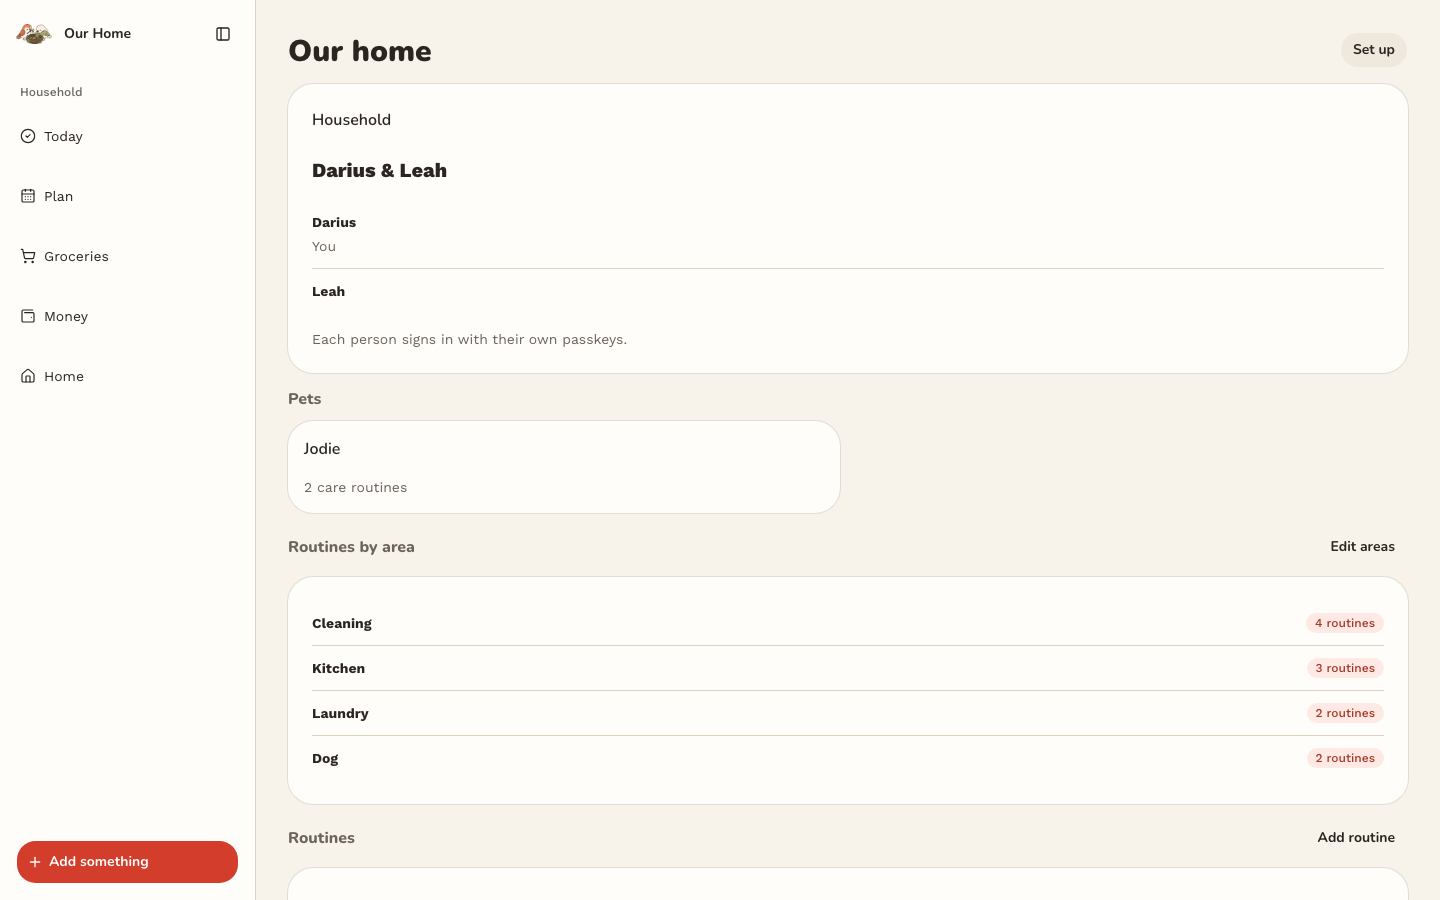
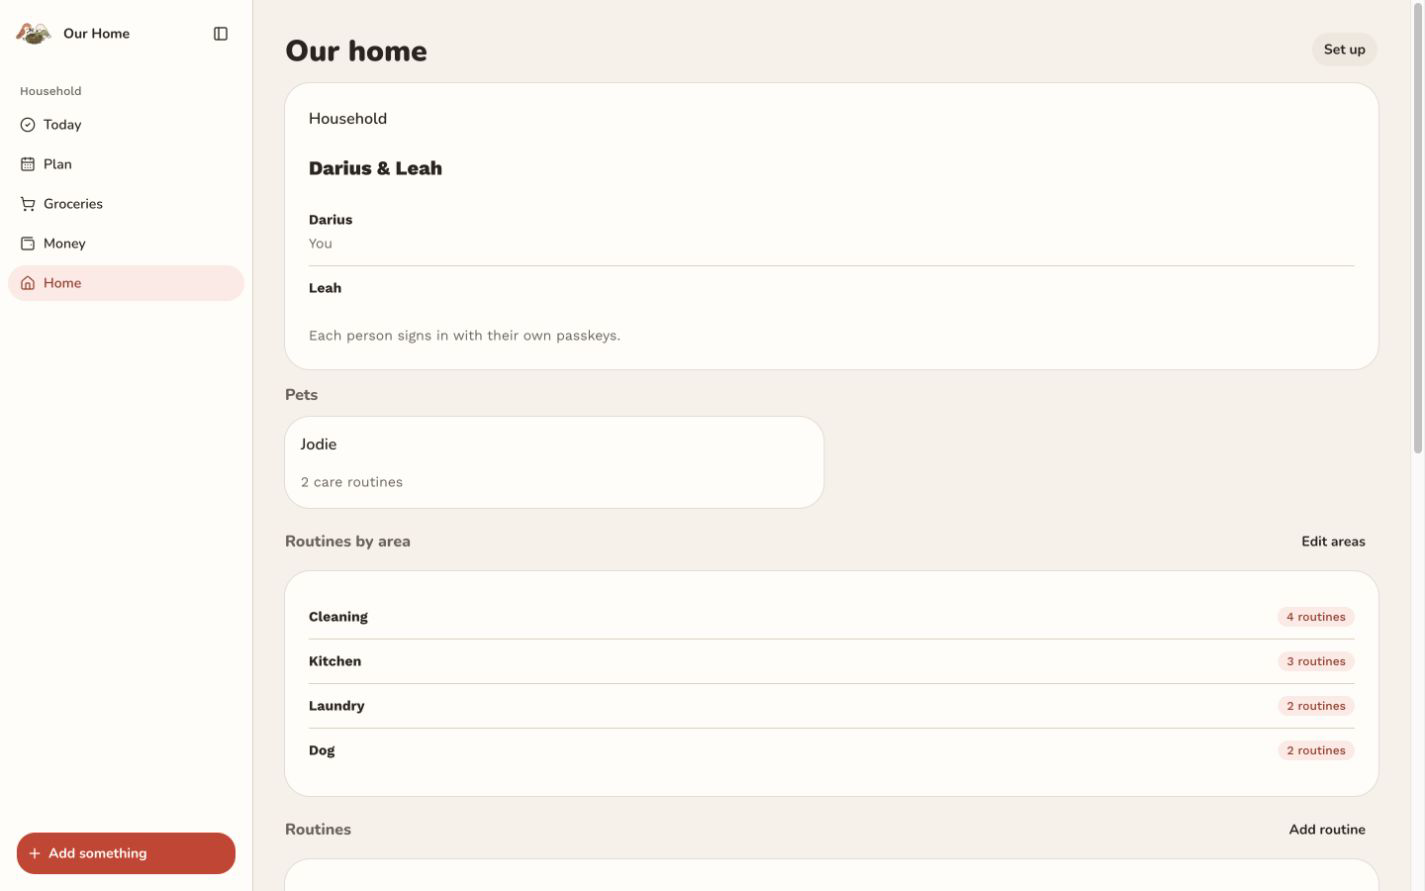
Tighten sidebar navigation density

diff --git a/tests/e2e/m6-surfaces.spec.ts b/tests/e2e/m6-surfaces.spec.ts
@@ -144,6 +144,24 @@ test("desktop shadcn sidebar keeps the global add action in view", async ({
     sidebar.getByRole("link", { name: "Home", exact: true }),
   ).toHaveAttribute("aria-current", "page");
 
+  const navigationLinks = sidebar
+    .getByRole("navigation", { name: "Primary navigation" })
+    .getByRole("link");
+  const navigationRects = await navigationLinks.evaluateAll((links) =>
+    links.map((link) => {
+      const rect = link.getBoundingClientRect();
+      return { bottom: rect.bottom, height: rect.height, top: rect.top };
+    }),
+  );
+  expect(navigationRects).toHaveLength(5);
+  expect(navigationRects.every(({ height }) => height <= 36)).toBe(true);
+  expect(
+    navigationRects.slice(1).every(({ top }, index) => {
+      const previous = navigationRects[index];
+      return previous !== undefined && top - previous.bottom <= 4;
+    }),
+  ).toBe(true);
+
   const initialButtonTop = await addButton.evaluate(
     (element) => element.getBoundingClientRect().top,
   );

diff --git a/src/ui/shell/app-sidebar.client.tsx b/src/ui/shell/app-sidebar.client.tsx
@@ -94,9 +94,9 @@ export function AppSidebar({ householdName }: AppSidebarProps) {
                       <SidebarMenuItem key={destination.id}>
                         <SidebarMenuButton
                           aria-current={isActive ? "page" : undefined}
+                          className="font-heading font-semibold data-active:font-semibold"
                           isActive={isActive}
                           render={<Link href={destination.href} />}
-                          size="lg"
                           title={destination.label}
                         >
                           <Icon />
